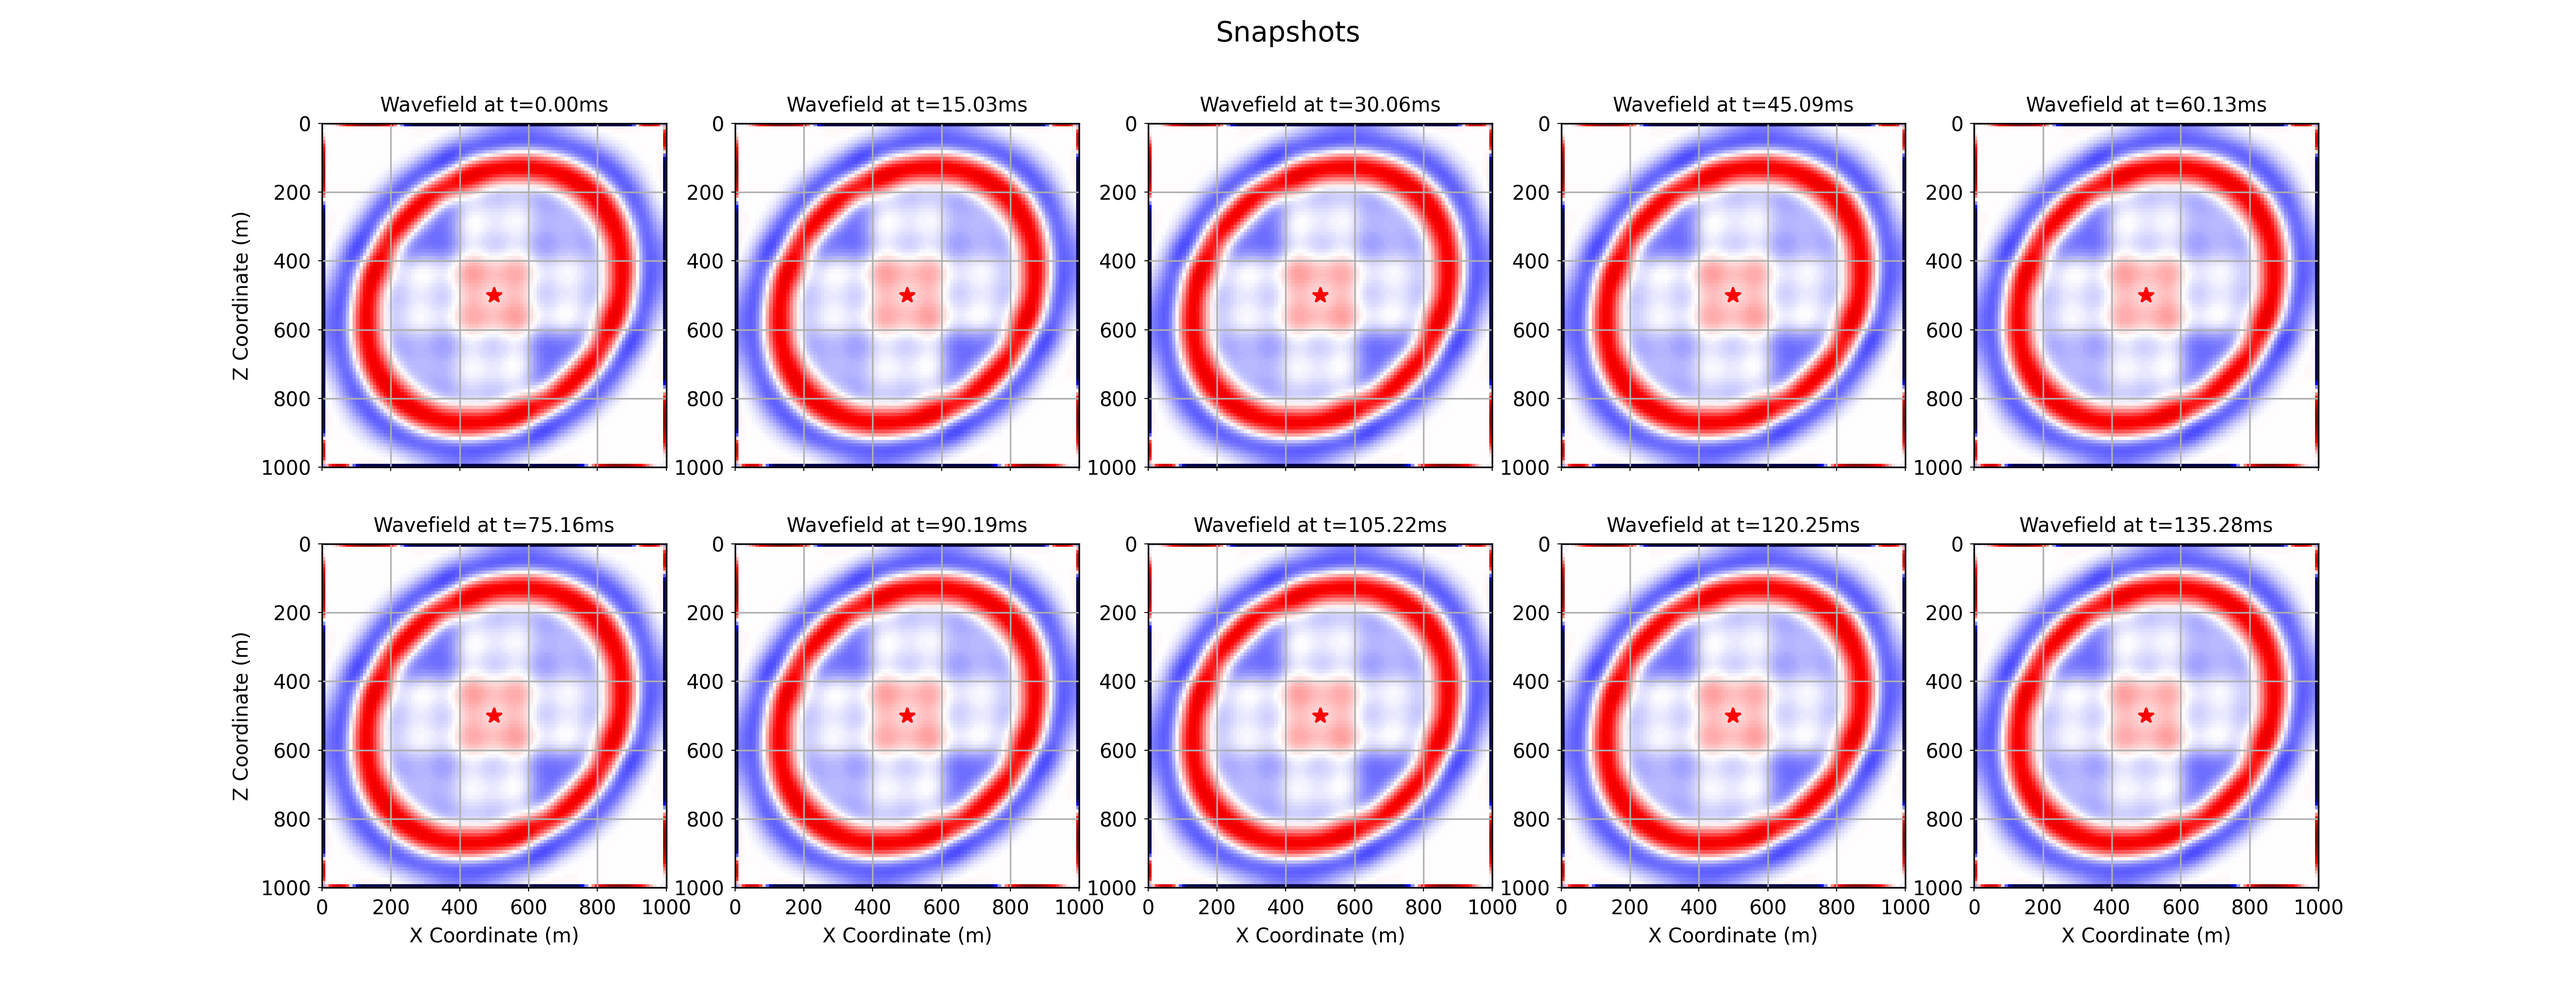
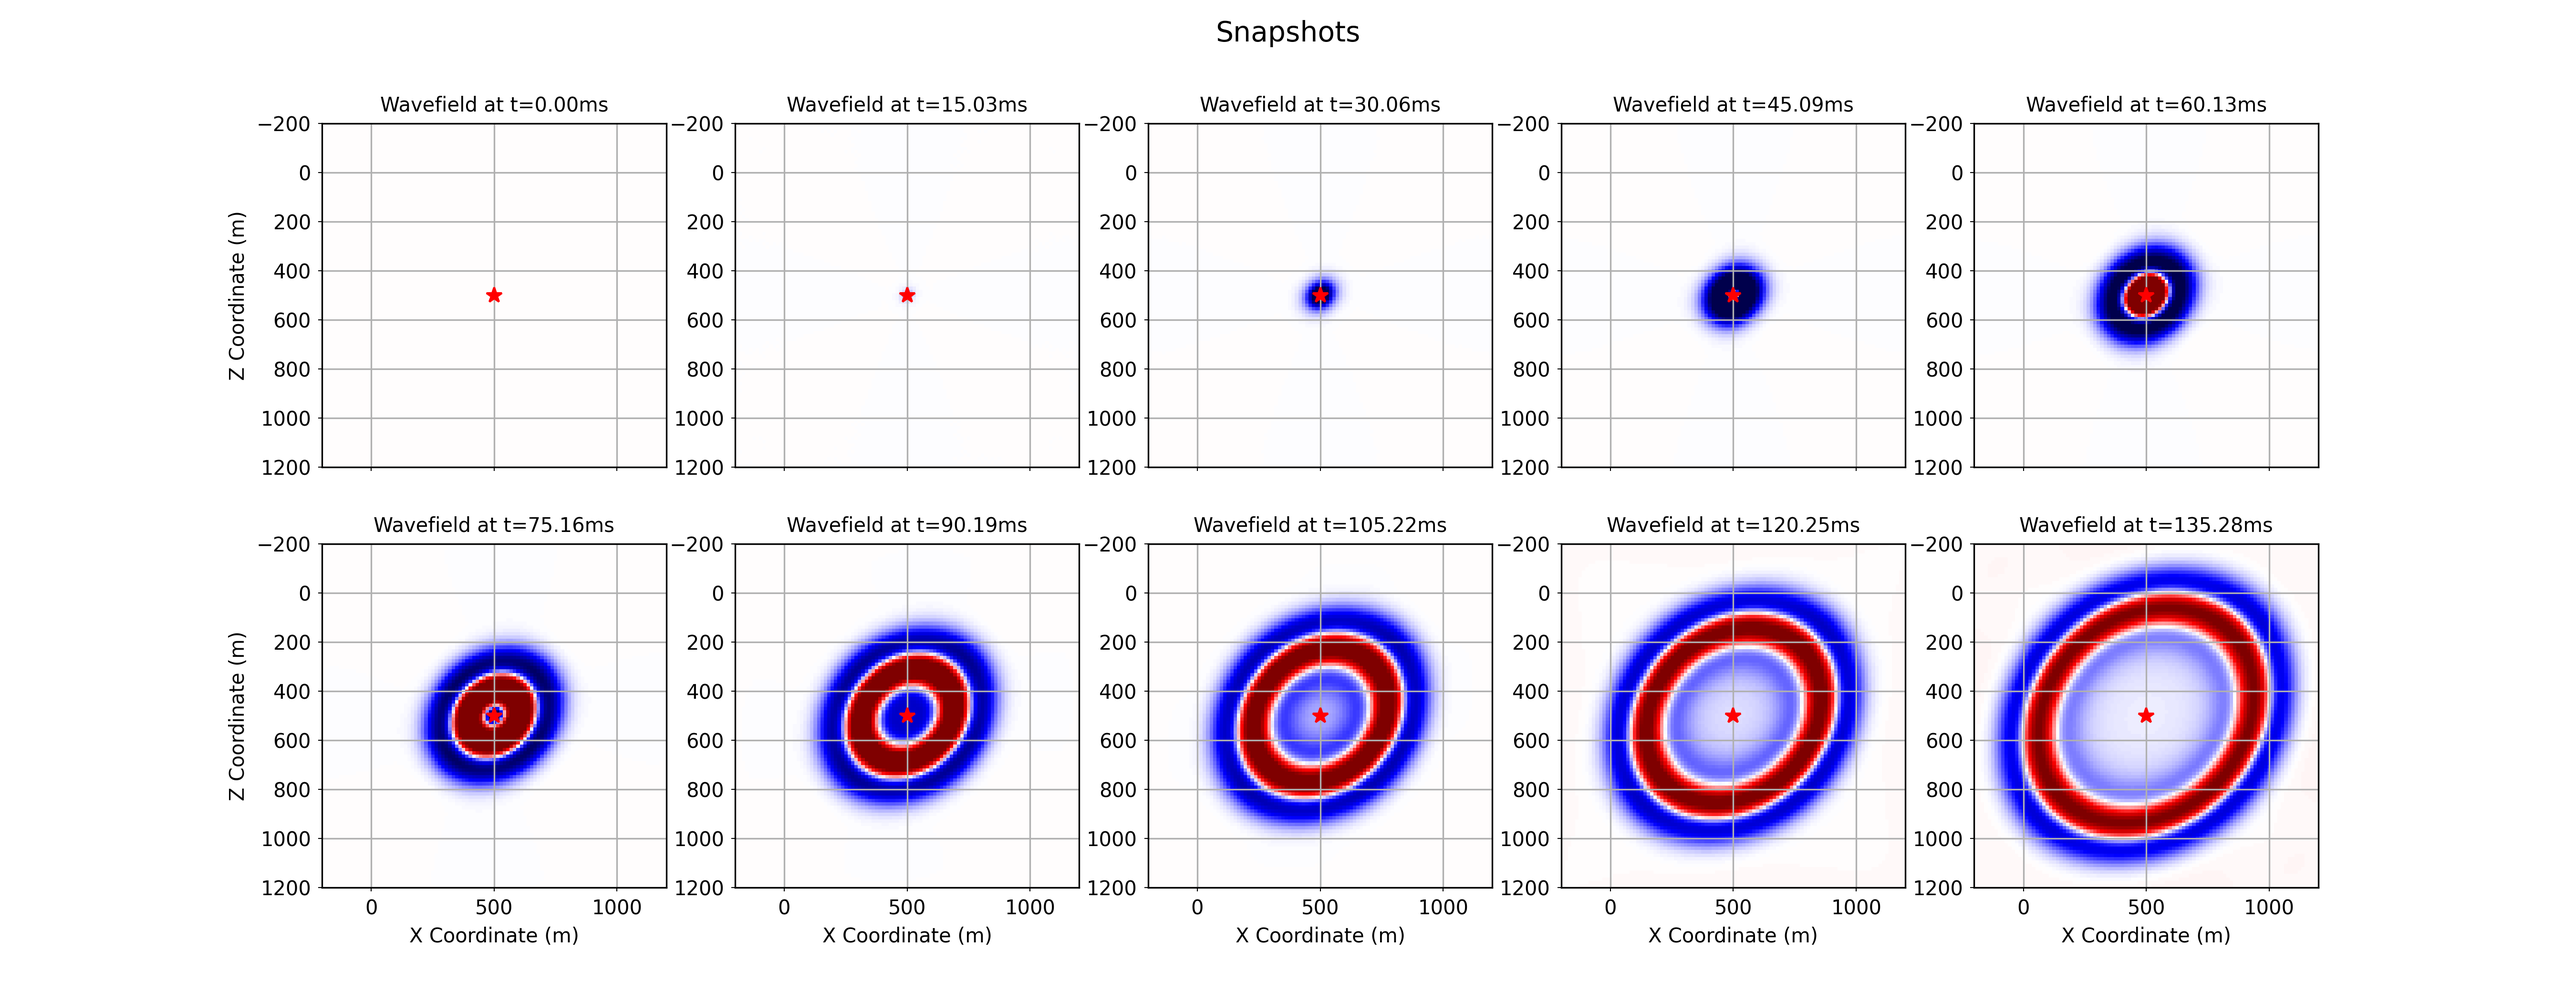
use save to generate petsc plot

diff --git a/Chapter3/seismic/tti_pure_qp_petsc.py b/Chapter3/seismic/tti_pure_qp_petsc.py
@@ -61,7 +61,7 @@ subdomains = (sub1, sub2, sub3, sub4)
 shape   = (101,101) # 101x101 grid
 spacing = (10.,10.) # spacing of 10 meters
 origin  = (0.,0.)  
-nbl = 0  # number of pad points
+nbl = 20  # number of pad points
 
 model = demo_model('layers-tti', spacing=spacing, space_order=8,
                    shape=shape, nbl=nbl, nlayers=1, subdomains=subdomains, dtype=np.float64)
@@ -101,14 +101,15 @@ dvalue = min(spacing)
 # Compute the dt and set time range
 t0 = 0.   #  Simulation time start
 tn = 150. #  Simulation time end (0.15 second = 150 msec)
-# tn = 135.
 dt = (dvalue/(np.pi*vmax))*np.sqrt(1/(1+etamax*(max_cos_sin)**2)) # eq. above (cell 3)
 time_range = TimeAxis(start=t0,stop=tn,step=dt)
 print("time_range; ", time_range)
 
+kt = (time_range.num - 2) - 1
+print("dt: ", dt, " nt: ", time_range.num, " kt: ", kt)
 
 # time stepping 
-p = TimeFunction(name="p", grid=model.grid, time_order=2, space_order=2)
+p = TimeFunction(name="p", grid=model.grid, time_order=2, space_order=2, save=time_range.num)
 q = Function(name="q", grid=model.grid, space_order=8)
 
 # Main equations
@@ -118,7 +119,7 @@ term3_p = (2-delta*(sin2theta)**2 + 3*epsilon*(sin2theta)**2 + 2*delta*(cos2thet
 term4_p = ( delta*sin4theta - 4*epsilon*sin2theta*costheta**2)*((q.dy).dx3)
 term5_p = (-delta*sin4theta - 4*epsilon*sin2theta*sintheta**2)*((q.dy3).dx)
 
-stencil_p = solve(m*p.dt2 - (term1_p + term2_p + term3_p + term4_p + term5_p), p.forward)
+stencil_p = solve(m*p.dt2 - (term1_p + term2_p + term3_p + term4_p + term5_p) + model.damp*p.dt, p.forward)
 update_p = Eq(p.forward, stencil_p)
 
 
@@ -139,34 +140,9 @@ bc += [EssentialBC(q, 0., subdomain=model.grid.subdomains['subleft'])]
 bc += [EssentialBC(q, 0., subdomain=model.grid.subdomains['subright'])]
 
 
-damping = Function(name="damping", grid=model.grid, space_order=2)
-
-nx, ny = damping.shape
-taper_width = 10
-min_val, max_val = 0.97, 1.0
-
-# Coordinates
-x = np.arange(nx)
-y = np.arange(ny)
-X, Y = np.meshgrid(x, y, indexing="ij")
-
-# Distance to nearest edge (for tapering)
-dist = np.minimum.reduce([X, nx-1-X, Y, ny-1-Y])
-
-# Normalized [0,1] distance into taper region
-mask = np.clip(dist / taper_width, 0, 1)
-
-# Cosine taper profile
-taper = min_val + (max_val - min_val) * 0.5 * (1 - np.cos(np.pi * mask))
-
-damping.data[:] = taper
-
 
 update_q = Eq(q.laplace, p.forward, subdomain=model.grid.interior)
 petsc = petscsolve([update_q] + bc, target=q, solver_parameters={'ksp_type': 'cg'}, options_prefix='poisson')
-
-
-damping_eqn = Eq(q, damping*q, subdomain=model.grid.interior)
 
 
 # set source and receivers
@@ -182,23 +158,11 @@ rec.coordinates.data[:, 1] = 2*spacing[1]
 # Create interpolation expression for receivers
 rec_term = rec.interpolate(expr=p.forward)
 
-# Operators
-# optime=Operator([update_p] + src_term + rec_term)
-# oppres=Operator([update_q] + bc)
-
-
-# op_all = Operator([update_p] + src_term + rec_term + [update_q] + bc)
 
 with switchconfig():
     op_all = Operator([update_p] + src_term + rec_term + [petsc], language='petsc')
-    # op_all = Operator([update_p] + src_term + rec_term + [petsc] + [damping_eqn], language='petsc')
-    # op_all = Operator([update_p, petsc], language='petsc')
-    # print(op_all.ccode)
-    op_all(time_m=0, time_M=time_range.num-2, dt=dt)
-    # op_all(time_m=0, time_M=100, dt=dt)
-
-
-
+    # op_all(time_m=0, time_M=time_range.num-2, dt=dt)
+    op_all(dt=dt)
 
 
 # Some useful definitions for plotting if nbl is set to any other value than zero
@@ -208,7 +172,6 @@ origin_pad  = tuple([o - s*nbl for o, s in zip(origin, spacing)])
 extent_pad  = tuple([s*(n-1) for s, n in zip(spacing, shape_pad)])
 
 
-
 # NBVAL_IGNORE_OUTPUT
 
 # Note: flip sense of second dimension to make the plot positive downwards
@@ -216,12 +179,11 @@ plt_extent = [origin_pad[0], origin_pad[0] + extent_pad[0],
               origin_pad[1] + extent_pad[1], origin_pad[1]]
 
 # Plot the wavefields, each normalized to scaled maximum of last time step
-kt = (time_range.num - 2) - 1
-amax = 0.05 * np.max(np.abs(p.data[kt,:,:]))
+# amax = 0.05 * np.max(np.abs(p.data[kt,:,:]))
+amax = np.max(np.abs(p.data[kt,:,:]))
 
 nsnaps = 10
 factor = round(time_range.num/nsnaps)
-
 
 
 # from IPython import embed; embed()
@@ -229,8 +191,7 @@ fig, axes = plt.subplots(2, 5, figsize=(18, 7), sharex=True)
 fig.suptitle("Snapshots", size=14)
 for count, ax in enumerate(axes.ravel()):
     snapshot = factor*count
-    # from IPython import embed; embed()
-    ax.imshow(np.transpose(p.data[-1,:,:]), cmap="seismic",
+    ax.imshow(np.transpose(p.data[snapshot,nbl:-nbl,nbl:-nbl]), cmap="seismic",
                vmin=-amax, vmax=+amax, extent=plt_extent)
     ax.plot(model.domain_size[0]* .5, model.domain_size[1]* .5, \
          'red', linestyle='None', marker='*', markersize=8, label="Source")

diff --git a/Chapter3/seismic/tti_pure_qp_original_with_damping.py b/Chapter3/seismic/tti_pure_qp_original_with_damping.py
@@ -84,16 +84,11 @@ t = model.grid.stepping_dim
 update_q = Eq( pp[t+1,x,z],((pp[t,x+1,z] + pp[t,x-1,z])*z.spacing**2 + (pp[t,x,z+1] + pp[t,x,z-1])*x.spacing**2 -
          b[x,z]*x.spacing**2*z.spacing**2) / (2*(x.spacing**2 + z.spacing**2)))
 
-# update_q = Eq( pp[t+1,x,z],damping*(((pp[t,x+1,z] + pp[t,x-1,z])*z.spacing**2 + (pp[t,x,z+1] + pp[t,x,z-1])*x.spacing**2 -
-#          b[x,z]*x.spacing**2*z.spacing**2) / (2*(x.spacing**2 + z.spacing**2))))
-
 bc = [Eq(pp[t+1,x, 0], 0.)]
 bc += [Eq(pp[t+1,x, shape[1]+2*nbl-1], 0.)]
 bc += [Eq(pp[t+1,0, z], 0.)]
 bc += [Eq(pp[t+1,shape[0]-1+2*nbl, z], 0.)]
 
-
-# from IPython import embed; embed()
 
 # set source and receivers
 src = RickerSource(name='src',grid=model.grid,f0=0.02,npoint=1,time_range=time_range)
